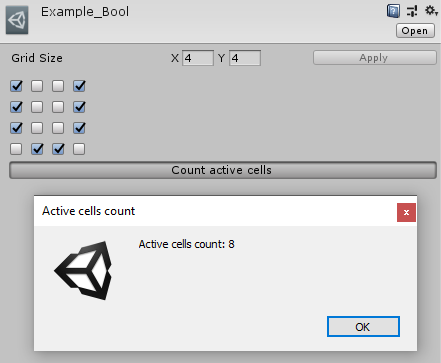
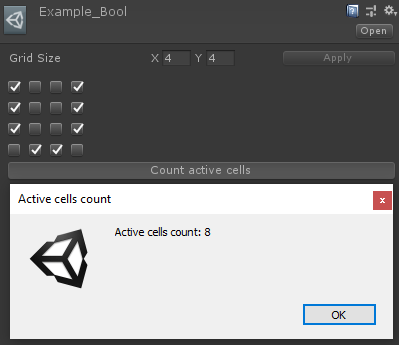
Add Enums, and refactoring

diff --git a/Array2DEditor/Assets/Plugins/Array2DEditor/Editor/Array2DEditor.cs b/Array2DEditor/Assets/Plugins/Array2DEditor/Editor/Array2DEditor.cs
@@ -22,9 +22,19 @@ namespace Array2DEditor
         private bool gridSizeChanged = false;
         private bool wrongSize = false;
 
+        private Vector2 cellSize;
+
         private MethodInfo boldFontMethodInfo = null;
 
-        protected abstract Vector2 GetCellSize(); // In pixels
+        /// <summary>
+        /// In pixels.
+        /// </summary>
+        protected virtual int CellWidth { get { return 16; } }
+        /// <summary>
+        /// In pixels;
+        /// </summary>
+        protected virtual int CellHeight { get { return 16; } }
+
         protected abstract void SetValue(SerializedProperty cell, int i, int j);
         protected virtual void OnEndInspectorGUI() { }
 
@@ -35,6 +45,8 @@ namespace Array2DEditor
             cells = serializedObject.FindProperty("cells");
 
             newGridSize = gridSize.vector2IntValue;
+
+            cellSize = new Vector2(CellWidth, CellHeight);
         }
 
         public override void OnInspectorGUI()
@@ -121,7 +133,7 @@ namespace Array2DEditor
 
             cellPosition.y += 10; // Same as EditorGUILayout.Space(), but in Rect
 
-            cellPosition.size = GetCellSize();
+            cellPosition.size = cellSize;
 
             float startLineX = cellPosition.x;
 
@@ -133,11 +145,11 @@ namespace Array2DEditor
                 for (int j = 0; j < gridSize.vector2IntValue.x; j++)
                 {
                     EditorGUI.PropertyField(cellPosition, row.GetArrayElementAtIndex(j), GUIContent.none);
-                    cellPosition.x += GetCellSize().x + margin;
+                    cellPosition.x += cellSize.x + margin;
                 }
 
-                cellPosition.y += GetCellSize().y + margin;
-                GUILayout.Space(GetCellSize().y + margin); // If we don't do this, the next things we're going to draw after the grid will be drawn on top of the grid
+                cellPosition.y += cellSize.y + margin;
+                GUILayout.Space(cellSize.y + margin); // If we don't do this, the next things we're going to draw after the grid will be drawn on top of the grid
             }
         }
 

diff --git a/Array2DEditor/Assets/Plugins/Array2DEditor/Scripts/Array2D.cs b/Array2DEditor/Assets/Plugins/Array2DEditor/Scripts/Array2D.cs
@@ -29,7 +29,7 @@ namespace Array2DEditor
             {
                 for (int j = 0; j < gridSize.x; j++)
                 {
-                    ret[i, j] = GetCellRow(i).GetAt(j);
+                    ret[i, j] = GetCellRow(i)[j];
                 }
             }
 
@@ -38,24 +38,15 @@ namespace Array2DEditor
     }
 
     [System.Serializable]
-    public class CellRowBool : CellRow<bool> { }
-    [System.Serializable]
-    public class CellRowInt : CellRow<int> { }
-    [System.Serializable]
-    public class CellRowFloat : CellRow<float> { }
-    [System.Serializable]
-    public class CellRowString : CellRow<string> { }
-
-    [System.Serializable]
     public class CellRow<T>
     {
         [SerializeField]
         private T[] row = new T[Consts.defaultGridSize];
 
 
-        public T GetAt(int idx)
+        public T this[int i]
         {
-            return row[idx];
+            get { return row[i]; }
         }
     }
 }

diff --git a/Array2DEditor/Assets/Plugins/Array2DEditor/Editor/Array2DEnumEditor.cs b/Array2DEditor/Assets/Plugins/Array2DEditor/Editor/Array2DEnumEditor.cs
@@ -1,0 +1,24 @@
+using UnityEditor;
+using System.Linq;
+
+namespace Array2DEditor
+{
+    public class Array2DEnumEditor<T> : Array2DEditor
+    {
+        protected override int CellWidth { get { return 70; } }
+        protected override int CellHeight { get { return 16; } }
+
+        protected override void SetValue(SerializedProperty cell, int i, int j)
+        {
+            T[,] previousCells = (target as Array2D<T>).GetCells();
+            int width = previousCells.GetLength(1);
+
+            cell.enumValueIndex = 0;
+
+            if (i < gridSize.vector2IntValue.y && j < gridSize.vector2IntValue.x)
+            {
+                cell.enumValueIndex = previousCells.Cast<int>().ToArray()[i * width + j];
+            }
+        }
+    }
+}

diff --git a/Array2DEditor/Assets/Plugins/Array2DEditor/Editor/Array2DStringEditor.cs b/Array2DEditor/Assets/Plugins/Array2DEditor/Editor/Array2DStringEditor.cs
@@ -1,18 +1,12 @@
-using UnityEngine;
-using UnityEditor;
+using UnityEditor;
 
 namespace Array2DEditor
 {
     [CustomEditor(typeof(Array2DString))]
-    public class PieceDataStringEditor : Array2DEditor
+    public class Array2DStringEditor : Array2DEditor
     {
-        private Vector2 cellSize = new Vector2(96, 16);
-
-
-        protected override Vector2 GetCellSize()
-        {
-            return cellSize;
-        }
+        protected override int CellWidth { get { return 96; } }
+        protected override int CellHeight { get { return 16; } }
 
         protected override void SetValue(SerializedProperty cell, int i, int j)
         {

diff --git a/Array2DEditor/Assets/Plugins/Array2DEditor/Scripts/Array2DExampleEnum.cs b/Array2DEditor/Assets/Plugins/Array2DEditor/Scripts/Array2DExampleEnum.cs
@@ -1,0 +1,20 @@
+using UnityEngine;
+
+namespace Array2DEditor
+{
+    [System.Serializable]
+    [CreateAssetMenu(fileName = "Array2D_ExampleEnum", menuName = "Array2D/ExampleEnum")]
+    public class Array2DExampleEnum : Array2D<Enums.ExampleEnum>
+    {
+        [SerializeField]
+        CellRowExampleEnum[] cells = new CellRowExampleEnum[Consts.defaultGridSize];
+
+        protected override CellRow<Enums.ExampleEnum> GetCellRow(int idx)
+        {
+            return cells[idx];
+        }
+    }
+
+    [System.Serializable]
+    public class CellRowExampleEnum : CellRow<Enums.ExampleEnum> { }
+}

diff --git a/Array2DEditor/Assets/Plugins/Array2DEditor/Editor/Array2DFloatEditor.cs b/Array2DEditor/Assets/Plugins/Array2DEditor/Editor/Array2DFloatEditor.cs
@@ -4,15 +4,10 @@ using UnityEditor;
 namespace Array2DEditor
 {
     [CustomEditor(typeof(Array2DFloat))]
-    public class PieceDataFloatEditor : Array2DEditor
+    public class Array2DFloatEditor : Array2DEditor
     {
-        private Vector2 cellSize = new Vector2(32, 16);
-
-
-        protected override Vector2 GetCellSize()
-        {
-            return cellSize;
-        }
+        protected override int CellWidth { get { return 32; } }
+        protected override int CellHeight { get { return 16; } }
 
         protected override void SetValue(SerializedProperty cell, int i, int j)
         {

diff --git a/Array2DEditor/Assets/Plugins/Array2DEditor/Editor/Array2DIntEditor.cs b/Array2DEditor/Assets/Plugins/Array2DEditor/Editor/Array2DIntEditor.cs
@@ -4,15 +4,10 @@ using UnityEditor;
 namespace Array2DEditor
 {
     [CustomEditor(typeof(Array2DInt))]
-    public class PieceDataIntEditor : Array2DEditor
+    public class Array2DIntEditor : Array2DEditor
     {
-        private Vector2 cellSize = new Vector2(32, 16);
-
-
-        protected override Vector2 GetCellSize()
-        {
-            return cellSize;
-        }
+        protected override int CellWidth { get { return 32; } }
+        protected override int CellHeight { get { return 16; } }
 
         protected override void SetValue(SerializedProperty cell, int i, int j)
         {

diff --git a/Array2DEditor/Assets/Plugins/Array2DEditor/Editor/Array2DBoolEditor.cs b/Array2DEditor/Assets/Plugins/Array2DEditor/Editor/Array2DBoolEditor.cs
@@ -6,13 +6,8 @@ namespace Array2DEditor
     [CustomEditor(typeof(Array2DBool))]
     public class Array2DBoolEditor : Array2DEditor
     {
-        private Vector2 cellSize = new Vector2(16, 16);
-
-
-        protected override Vector2 GetCellSize()
-        {
-            return cellSize;
-        }
+        protected override int CellWidth { get { return 16; } }
+        protected override int CellHeight { get { return 16; } }
 
         protected override void SetValue(SerializedProperty cell, int i, int j)
         {

diff --git a/Array2DEditor/Assets/Plugins/Array2DEditor/Editor/Array2DExampleEnumEditor.cs b/Array2DEditor/Assets/Plugins/Array2DEditor/Editor/Array2DExampleEnumEditor.cs
@@ -1,0 +1,13 @@
+using UnityEditor;
+
+namespace Array2DEditor
+{
+    [CustomEditor(typeof(Array2DExampleEnum))]
+    public class Array2DExampleEnumEditor : Array2DEnumEditor<Enums.ExampleEnum>
+    {
+        // If your enum has long names, you can replace 70 by 150, for example.
+        protected override int CellWidth { get { return 70; } }
+        // For enums, the cell height will just change the vertical spacing. 
+        protected override int CellHeight { get { return 16; } }
+    }
+}

diff --git a/Array2DEditor/Assets/Plugins/Array2DEditor/Scripts/Enums.cs b/Array2DEditor/Assets/Plugins/Array2DEditor/Scripts/Enums.cs
@@ -1,0 +1,10 @@
+// This is just an example of how you could deal with your enums in your entire project.
+public class Enums
+{
+    public enum ExampleEnum
+    {
+        Empty,
+        Moving,
+        Normal
+    };
+}

diff --git a/Array2DEditor/Assets/Plugins/Array2DEditor/Scripts/Array2DString.cs b/Array2DEditor/Assets/Plugins/Array2DEditor/Scripts/Array2DString.cs
@@ -14,4 +14,7 @@ namespace Array2DEditor
             return cells[idx];
         }
     }
+
+    [System.Serializable]
+    public class CellRowString : CellRow<string> { }
 }

diff --git a/Array2DEditor/Assets/Plugins/Array2DEditor/Scripts/Array2DFloat.cs b/Array2DEditor/Assets/Plugins/Array2DEditor/Scripts/Array2DFloat.cs
@@ -14,4 +14,7 @@ namespace Array2DEditor
             return cells[idx];
         }
     }
+
+    [System.Serializable]
+    public class CellRowFloat : CellRow<float> { }
 }
